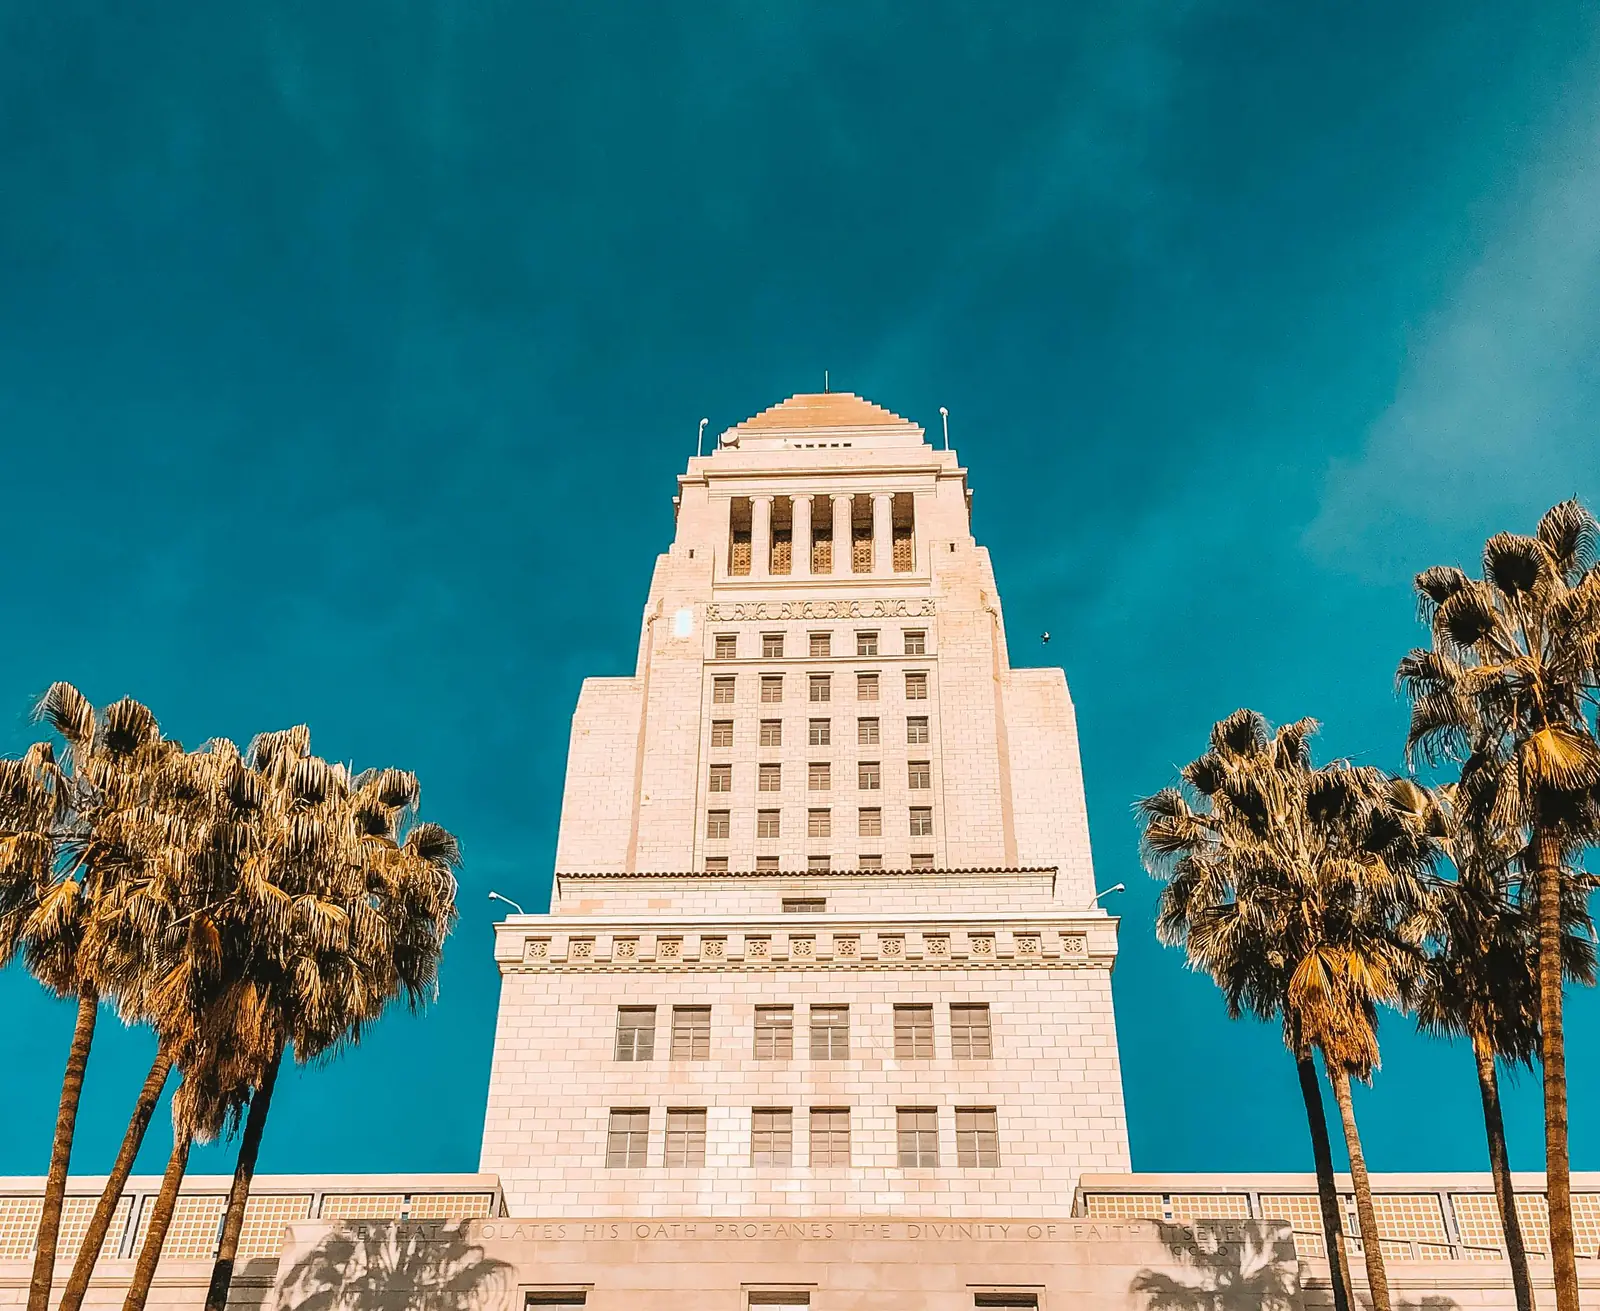
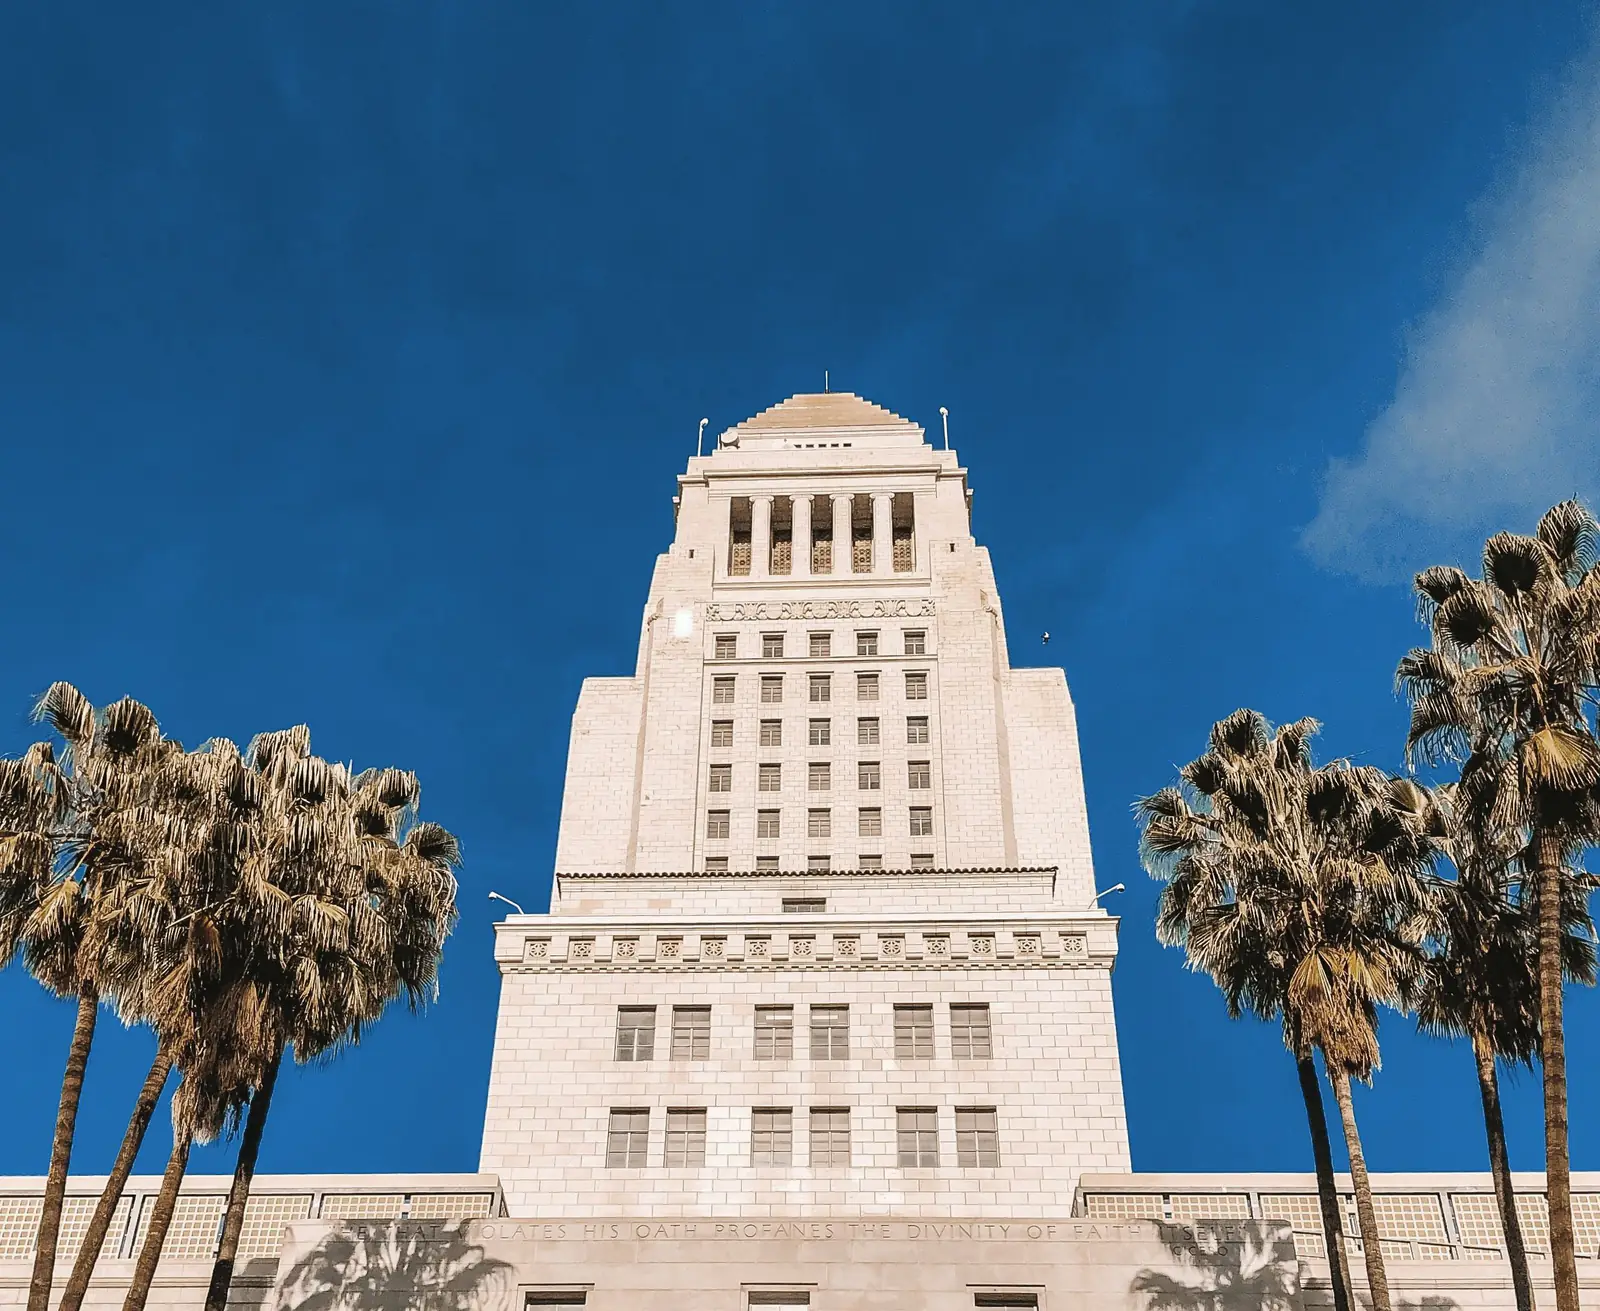
Home photo: natural sky instead of teal
Re-coloured the City Hall photo (Christopher Stark, Unsplash License,
which allows edits) from its teal-and-orange grade to a natural daylight
blue sky and neutral stone: selective per-pixel HSL adjustment (teal hues
shifted to ~208 deg and softened; warm hues desaturated). Same crops and
sizes as before (phone 59 KB); share image regenerated. Credit notes in
index.astro and README updated.

diff --git a/README.md b/README.md
@@ -67,7 +67,7 @@ The site is mostly white, in the manner of editorial consulting and large-firm s
 - **Artwork** that is generated rather than photographed: `node scripts/make-art.mjs` writes two line textures as SVG (vector) files, so their faint hairlines stay crisp on every screen: `menu-contours.svg` (pale contour lines behind the menu overlay; strokes stay one pixel wide at any size) and `hero-texture.svg` (about a dozen faint contour lines, the menu's motif, fading in from the right behind every inner-page title).
 - **Share image and icons** (`og-default.png`, `apple-touch-icon.png`, `favicon.ico`, `favicon-96.png`, `favicon-32.png`) are built by `node scripts/make-og.mjs`. The share image is drawn in `scripts/brand/sheet.html`, which the script screenshots with headless Chrome or Edge so they use the site's own fonts. Set `CHROME_PATH` if the browser is not in its usual place. The icons are the firm's HK monogram seal, from `scripts/brand/hk-monogram.png`; the script clears the white around it so it sits cleanly on light or dark browser tabs, and puts the iPhone home-screen icon on white.
 - **Photography.** Three images from Unsplash, all under the Unsplash License (commercial use, no attribution required; credited here anyway). Each is exported as WebP in the sizes its slot needs, and the browser picks the smallest that is sharp on the visitor's screen. These are not generated, so `make-art.mjs` leaves them alone.
-  - **Home opening:** Los Angeles City Hall framed by palms, by Christopher Stark (https://unsplash.com/photos/_yq0xYS1_VY). Chosen over a generic glass tower because the firm is not in a downtown high-rise. Desktop files `hero.webp` (2000 px), `hero-lg` (1600), `hero-md` (1200), `hero-sm` (800), cropped to 2000 x 2320, quality 78. Phones and small tablets get a wide crop (about 1.22:1, tower and palms in frame) through a `<picture>` source: `hero-phone.webp` (800 px), `hero-phone-md` (1200), `hero-phone-lg` (1600), quality 72. Also used by the share image, so rerun `node scripts/make-og.mjs` after replacing it.
+  - **Home opening:** Los Angeles City Hall framed by palms, by Christopher Stark (https://unsplash.com/photos/_yq0xYS1_VY), re-coloured from the original teal-and-orange grade to a natural daylight sky and neutral stone (selective hue and saturation adjustment; the Unsplash License allows edits). Chosen over a generic glass tower because the firm is not in a downtown high-rise. Desktop files `hero.webp` (2000 px), `hero-lg` (1600), `hero-md` (1200), `hero-sm` (800), cropped to 2000 x 2320, quality 78. Phones and small tablets get a wide crop (about 1.22:1, tower and palms in frame) through a `<picture>` source: `hero-phone.webp` (800 px), `hero-phone-md` (1200), `hero-phone-lg` (1600), quality 72. Also used by the share image, so rerun `node scripts/make-og.mjs` after replacing it.
   - **Outside General Counsel band (home):** a glass office tower at blue hour with lit floors, by Elio Elio (https://unsplash.com/photos/8YMbLoUWO_A). Files `feature.webp` (1200 px square) and `feature-sm.webp` (700 px).
   - **Closing band on inner pages:** a glass-walled meeting room with a conference table and a city view, by Mateusz Zatorski (https://unsplash.com/photos/wN9oyogyjQc). Files `closing.webp` (1200 px square) and `closing-sm.webp` (700 px).
   - The band images load lazily, only as the visitor scrolls toward them. To swap one, replace its files at the same shape and update the credit here and in the component (`src/pages/index.astro` or `src/components/CtaBand.astro`).
